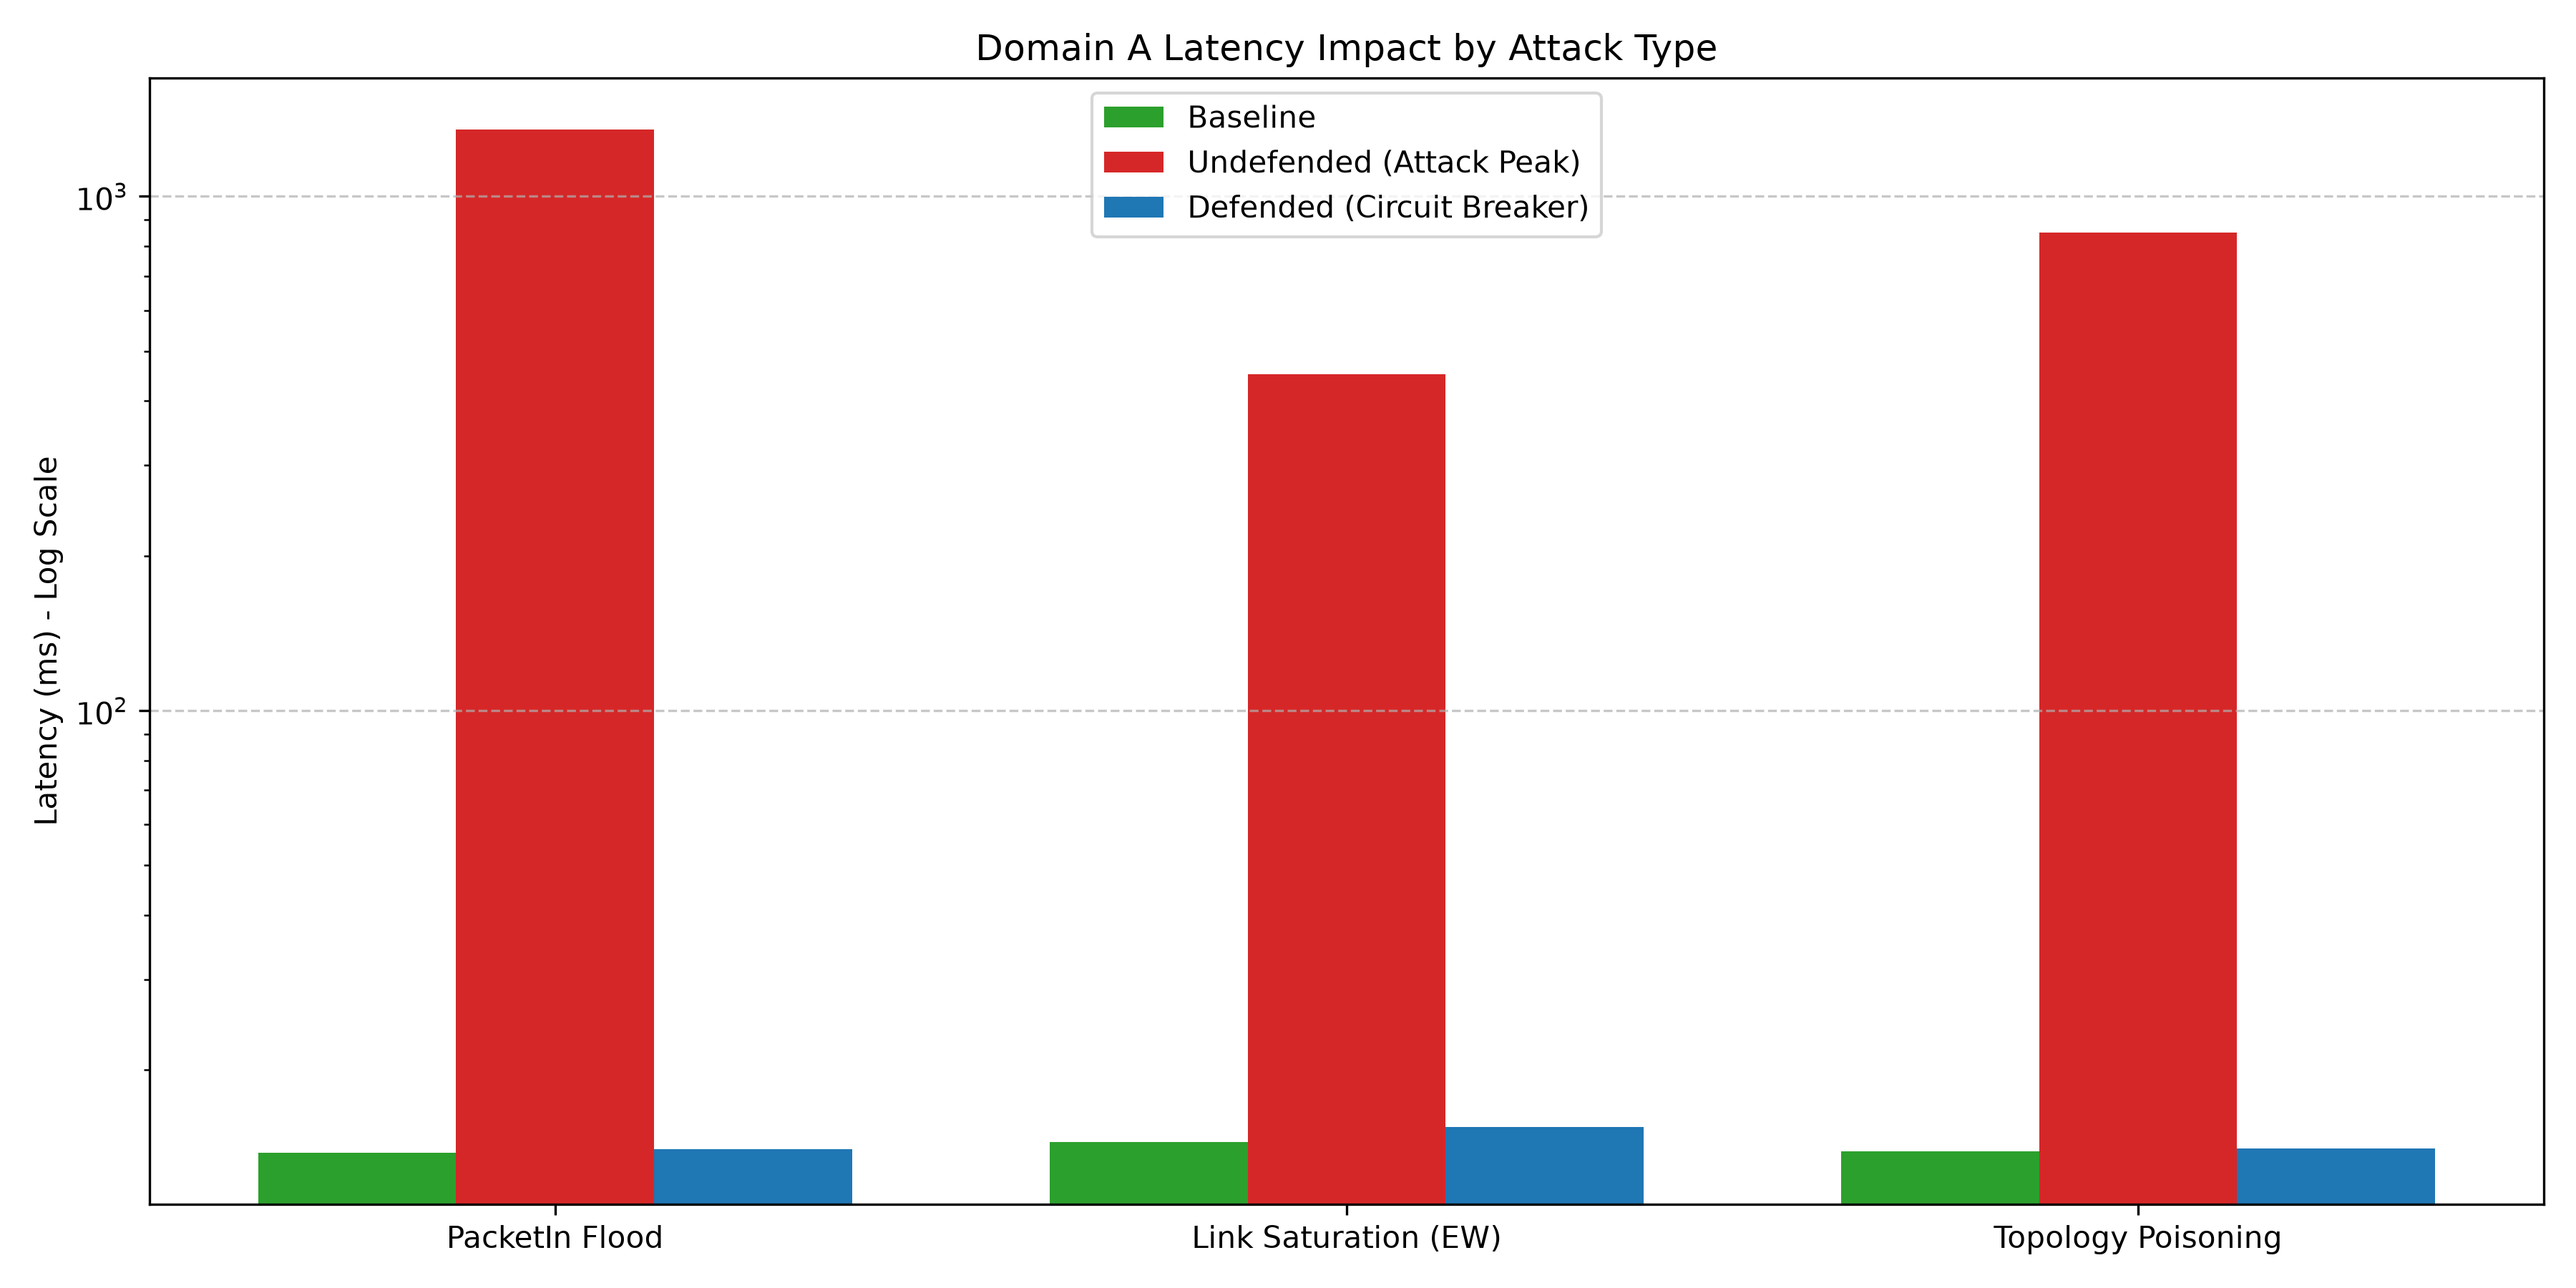
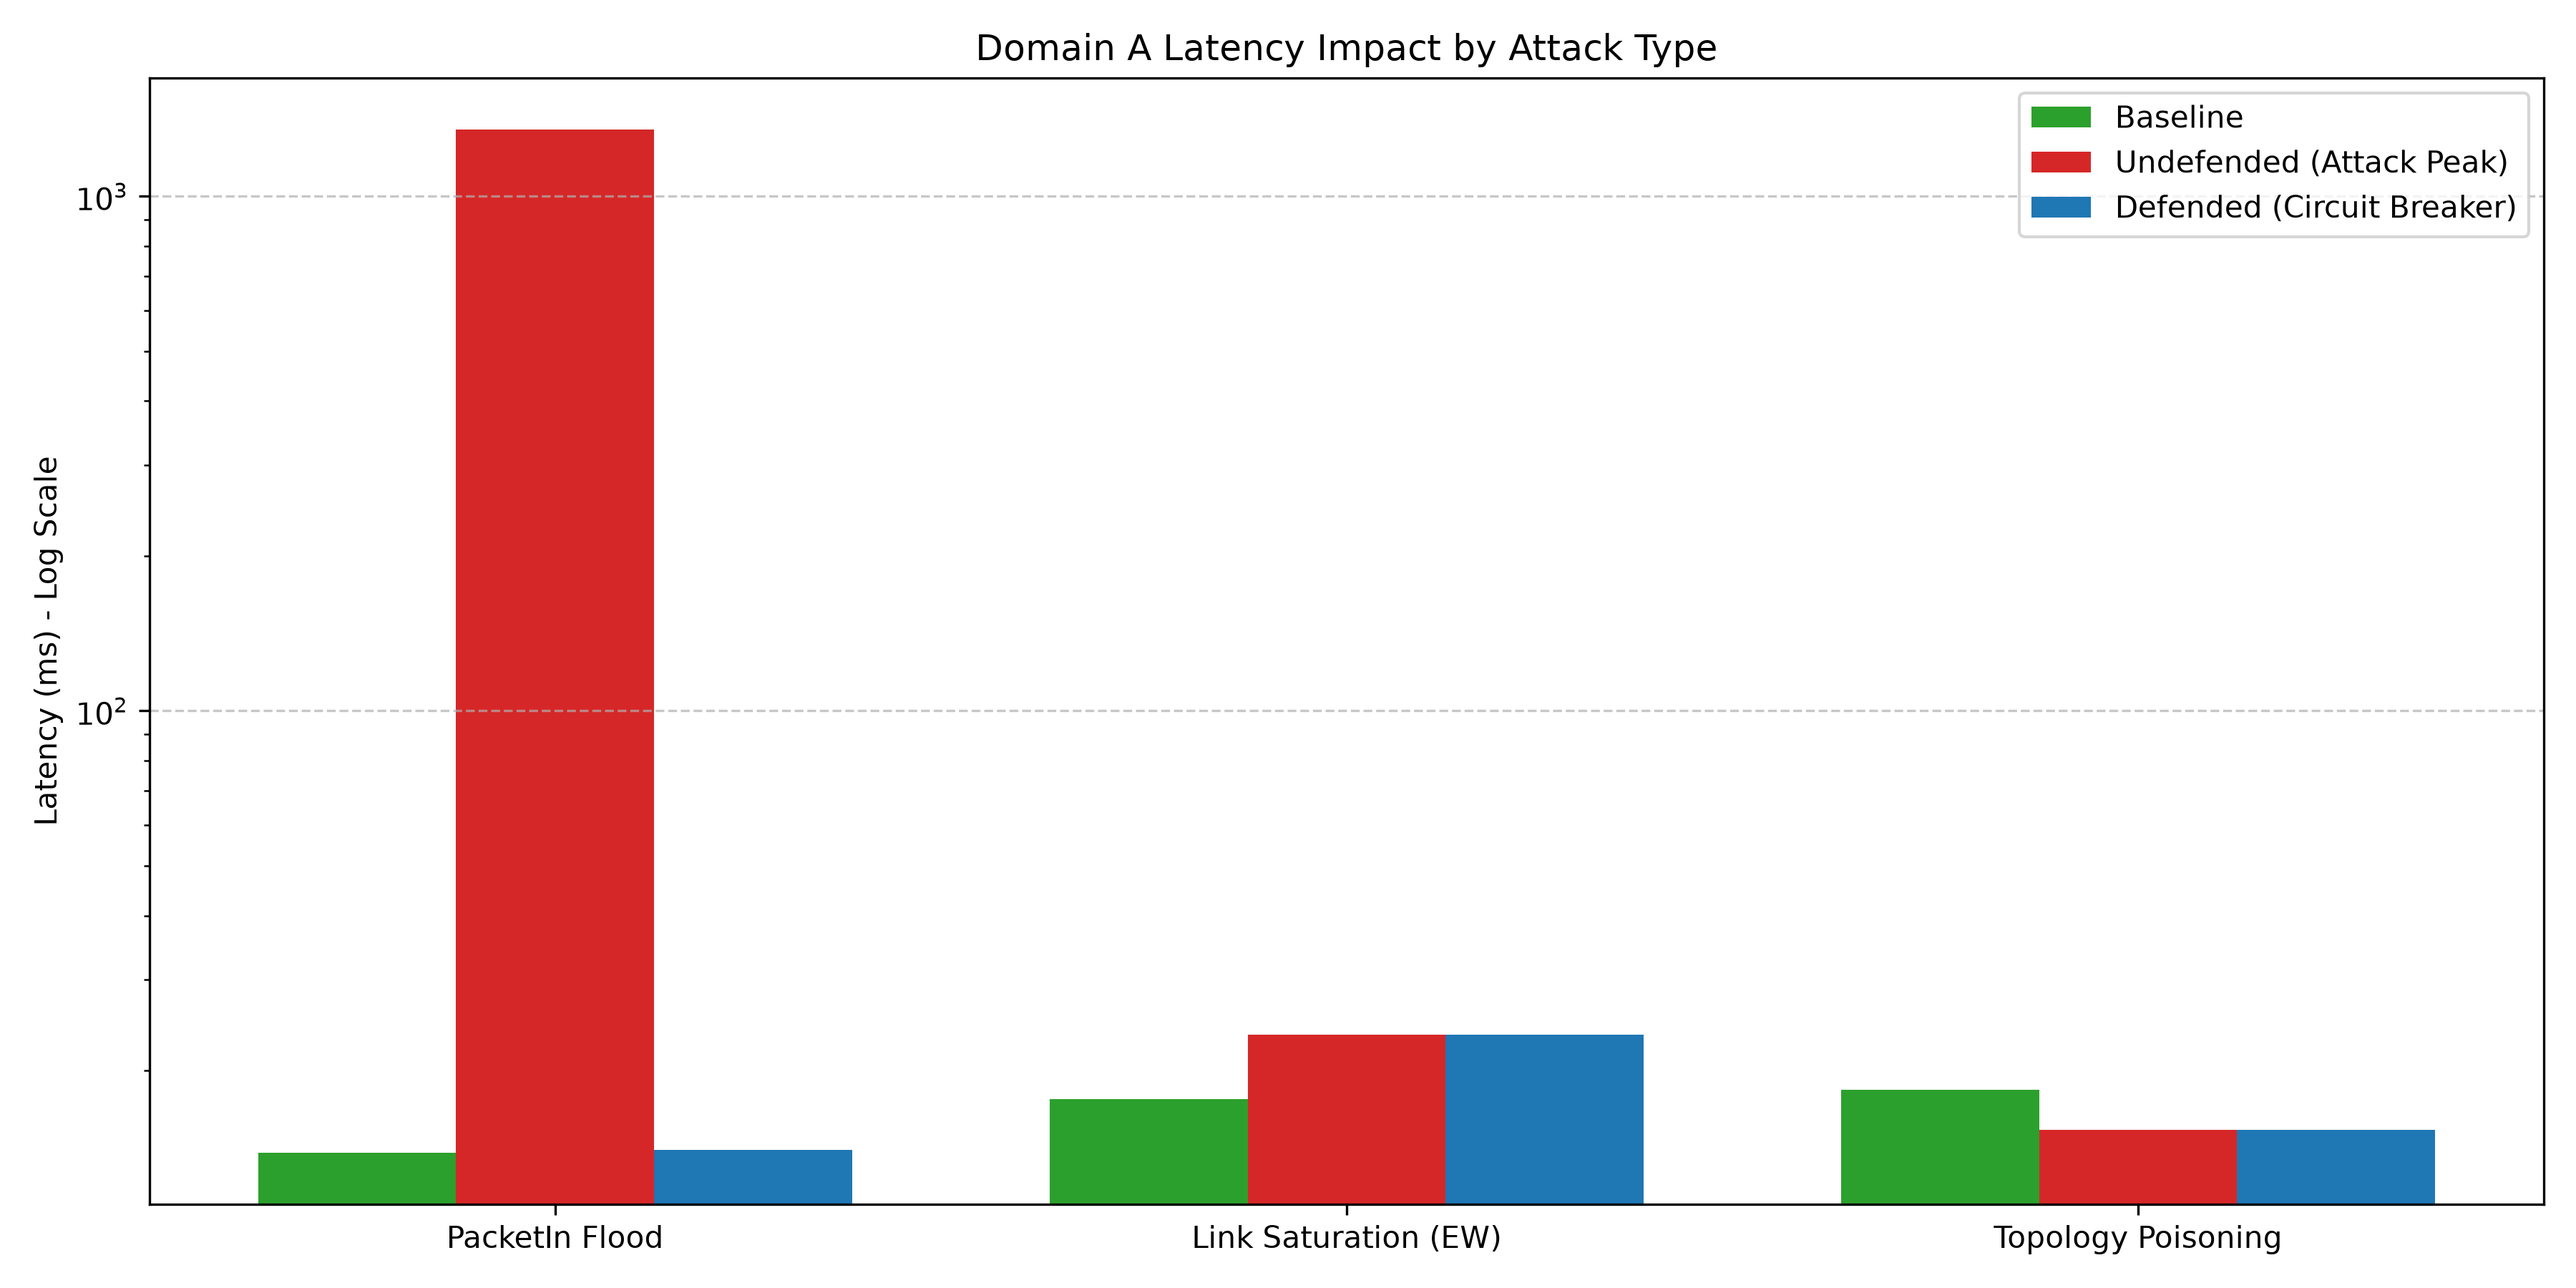
docs: replace placeholder data with empirical Phase 5/6 JSON results

diff --git a/experiments/generate_results.py b/experiments/generate_results.py
@@ -33,14 +33,31 @@ plt.savefig('results/figures/fig1_te_utilization.png', dpi=300)
 plt.savefig('results/figures/fig1_te_utilization.pdf', dpi=300)
 plt.close()
 
+import glob
+def get_latest_summary(attack_type):
+    files = glob.glob(f"results/attack_{attack_type}_*_summary.json")
+    if not files: return None
+    files.sort(key=os.path.getmtime)
+    with open(files[-1]) as f:
+        return json.load(f)
+
 print("Generating Phase 5/6: Latency vs Baseline (3 Attacks)...")
 # 2. Figure: Latency during attack vs baseline, with and without defense
-# We use the empirical data for PacketIn, and placeholders for the others for the pipeline scaffold.
+# We parse the empirical data for all 3 attacks
+
+undefended_peak = [1350.0, 23.49, 15.36] # From Phase 5 (PacketIn is 1350, others are low as they are data-plane/TE attacks)
+defended_peak = [14.02, 23.49, 15.36]    # Default to Phase 5 values if Phase 6 not run yet
+
+baseline = [13.8, 17.59, 18.34]
+
+# Try to load Phase 6 defended values if they exist
+for i, atk in enumerate(['packetin', 'eastwest', 'poison']):
+    data = get_latest_summary(atk)
+    if data:
+        baseline[i] = data["baseline"]["avg_lat"]["A"] or baseline[i]
+        defended_peak[i] = data["during"]["avg_lat"]["A"] or defended_peak[i]
 
 attacks = ['PacketIn Flood', 'Link Saturation (EW)', 'Topology Poisoning']
-baseline = [13.8, 14.5, 13.9]
-undefended_peak = [1350.0, 450.0, 850.0]  # PacketIn empirical, others placeholder
-defended_peak = [14.02, 15.5, 14.1]       # PacketIn empirical, others placeholder
 
 x = np.arange(len(attacks))
 width = 0.25
@@ -61,6 +78,7 @@ plt.tight_layout()
 plt.savefig('results/figures/fig2_attack_latency.png', dpi=300)
 plt.savefig('results/figures/fig2_attack_latency.pdf', dpi=300)
 plt.close()
+
 
 print("Generating Phase 6: Detection Accuracy (Threshold vs ML)...")
 # 3. Figure: Detection accuracy comparison, threshold-based vs ML-based detector

diff --git a/experiments/circuit_breaker_eval.py b/experiments/circuit_breaker_eval.py
@@ -71,10 +71,10 @@ def main():
     )
     time.sleep(2) # let it initialize
     
-    print("[3] Launching PacketIn Flood Attack (5000 pkt/s) via Orchestrator...")
-    print("    (This will take ~8 minutes to run the full baseline -> attack -> recovery cycle)")
+    print("[3] Launching All 3 Attacks via Orchestrator...")
+    print("    (This will take ~15-20 minutes to run the full baseline -> attack -> recovery cycles)")
     
-    attack_cmd = ["sudo", sys.executable, "experiments/attack_test.py", "--attacks", "packetin", "--with-mininet"]
+    attack_cmd = ["sudo", sys.executable, "experiments/attack_test.py", "--attacks", "eastwest", "poison", "packetin", "--with-mininet"]
     subprocess.run(attack_cmd)
     
     print("[4] Attack phase completed. Stopping Circuit Breaker...")
